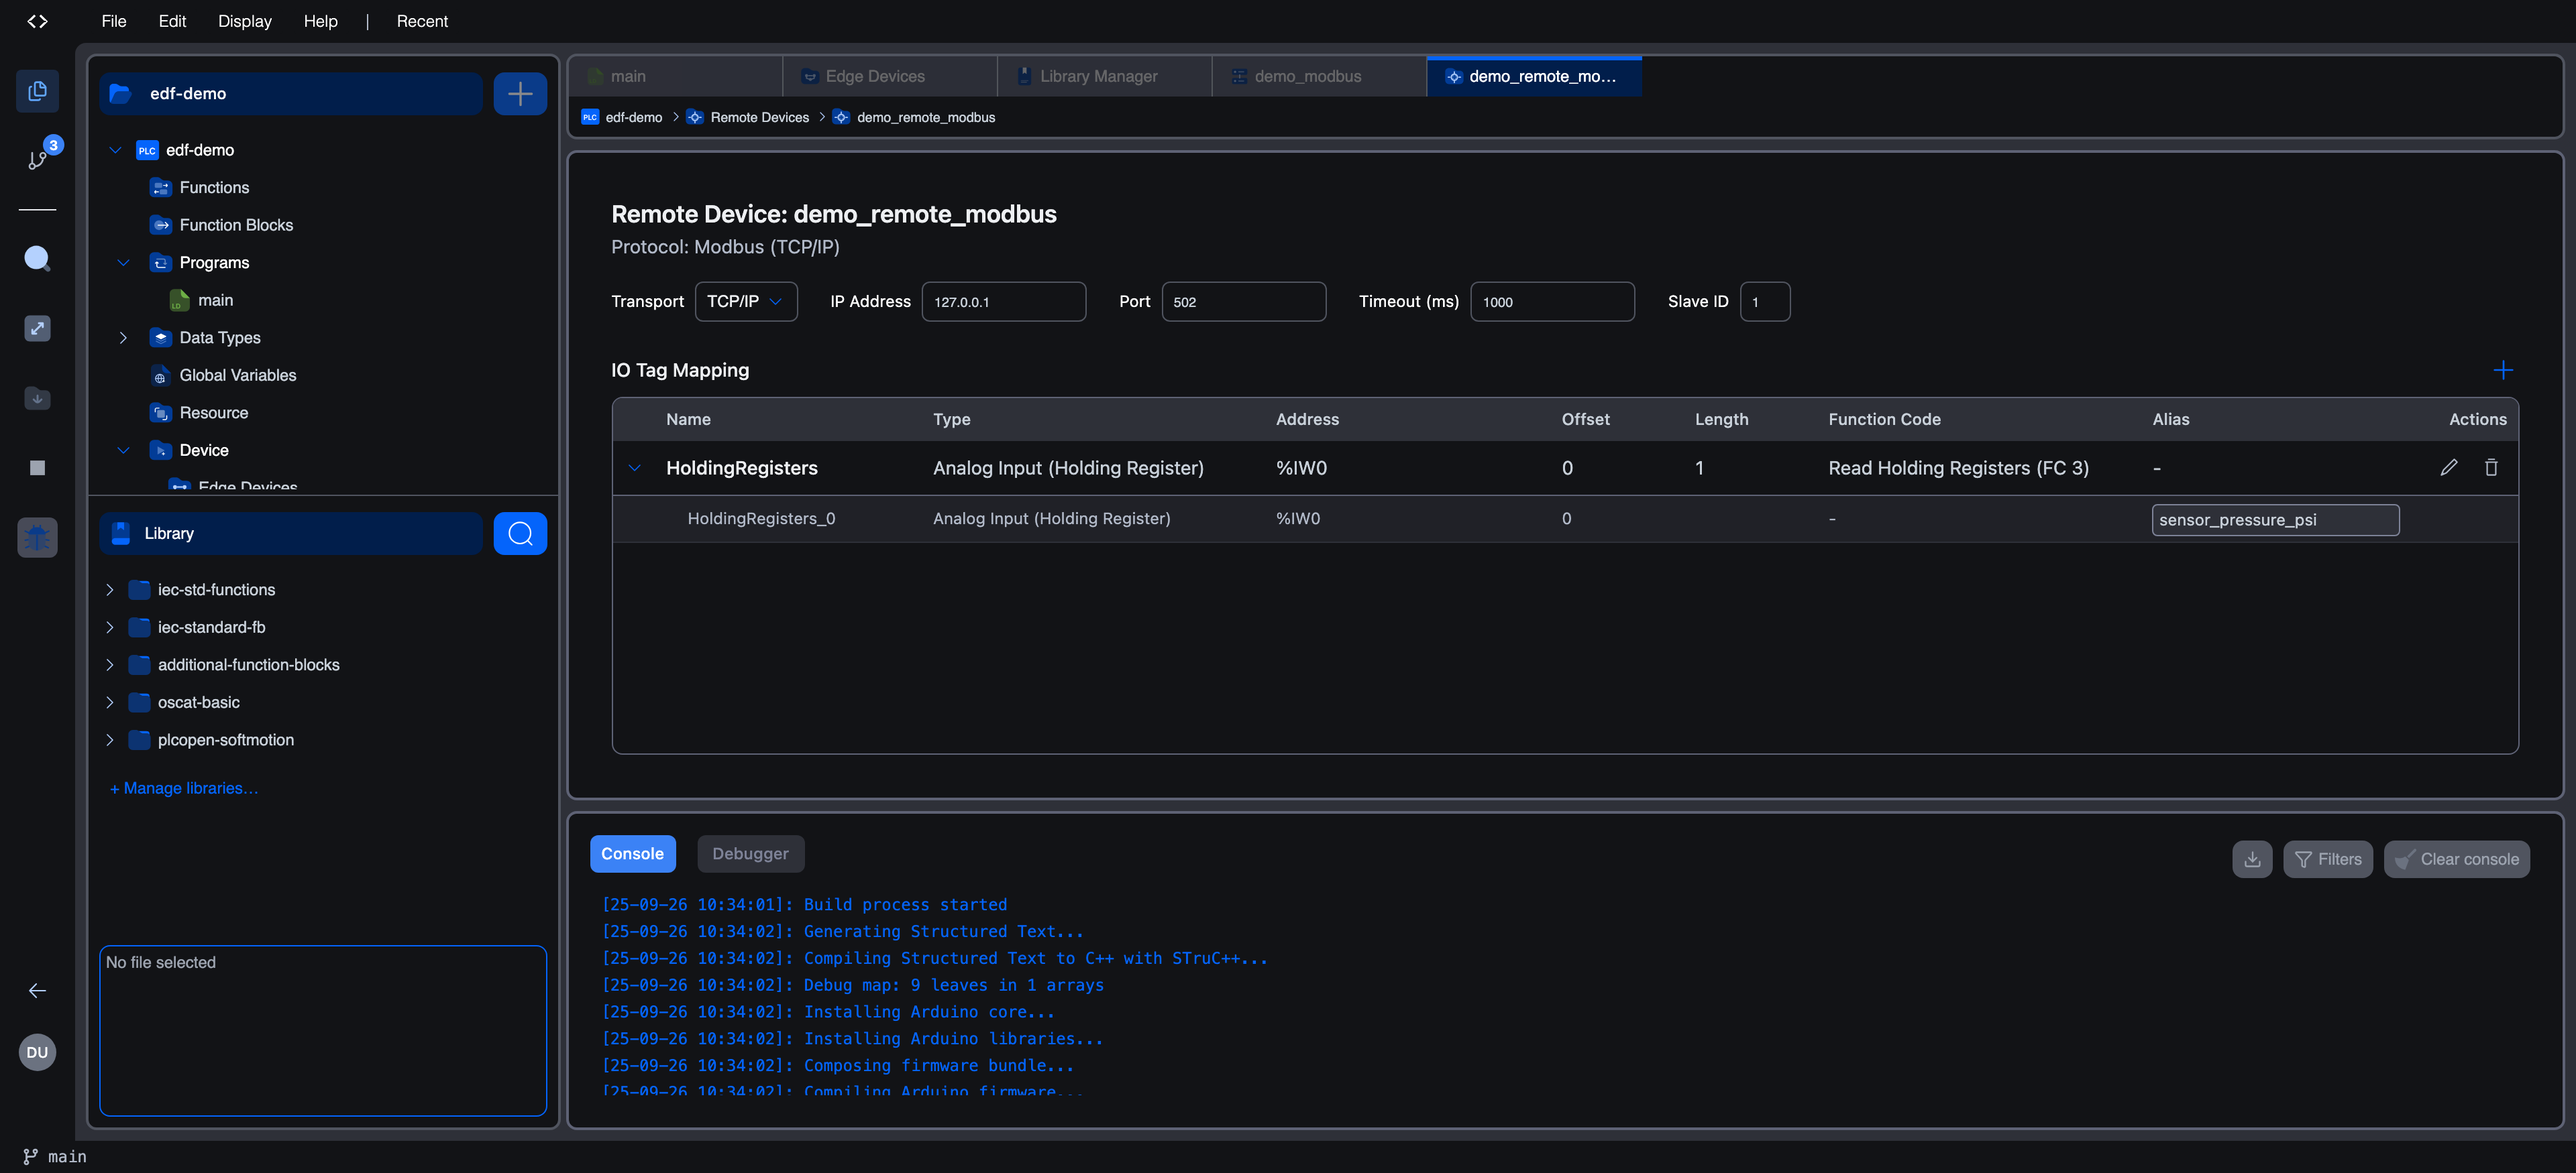
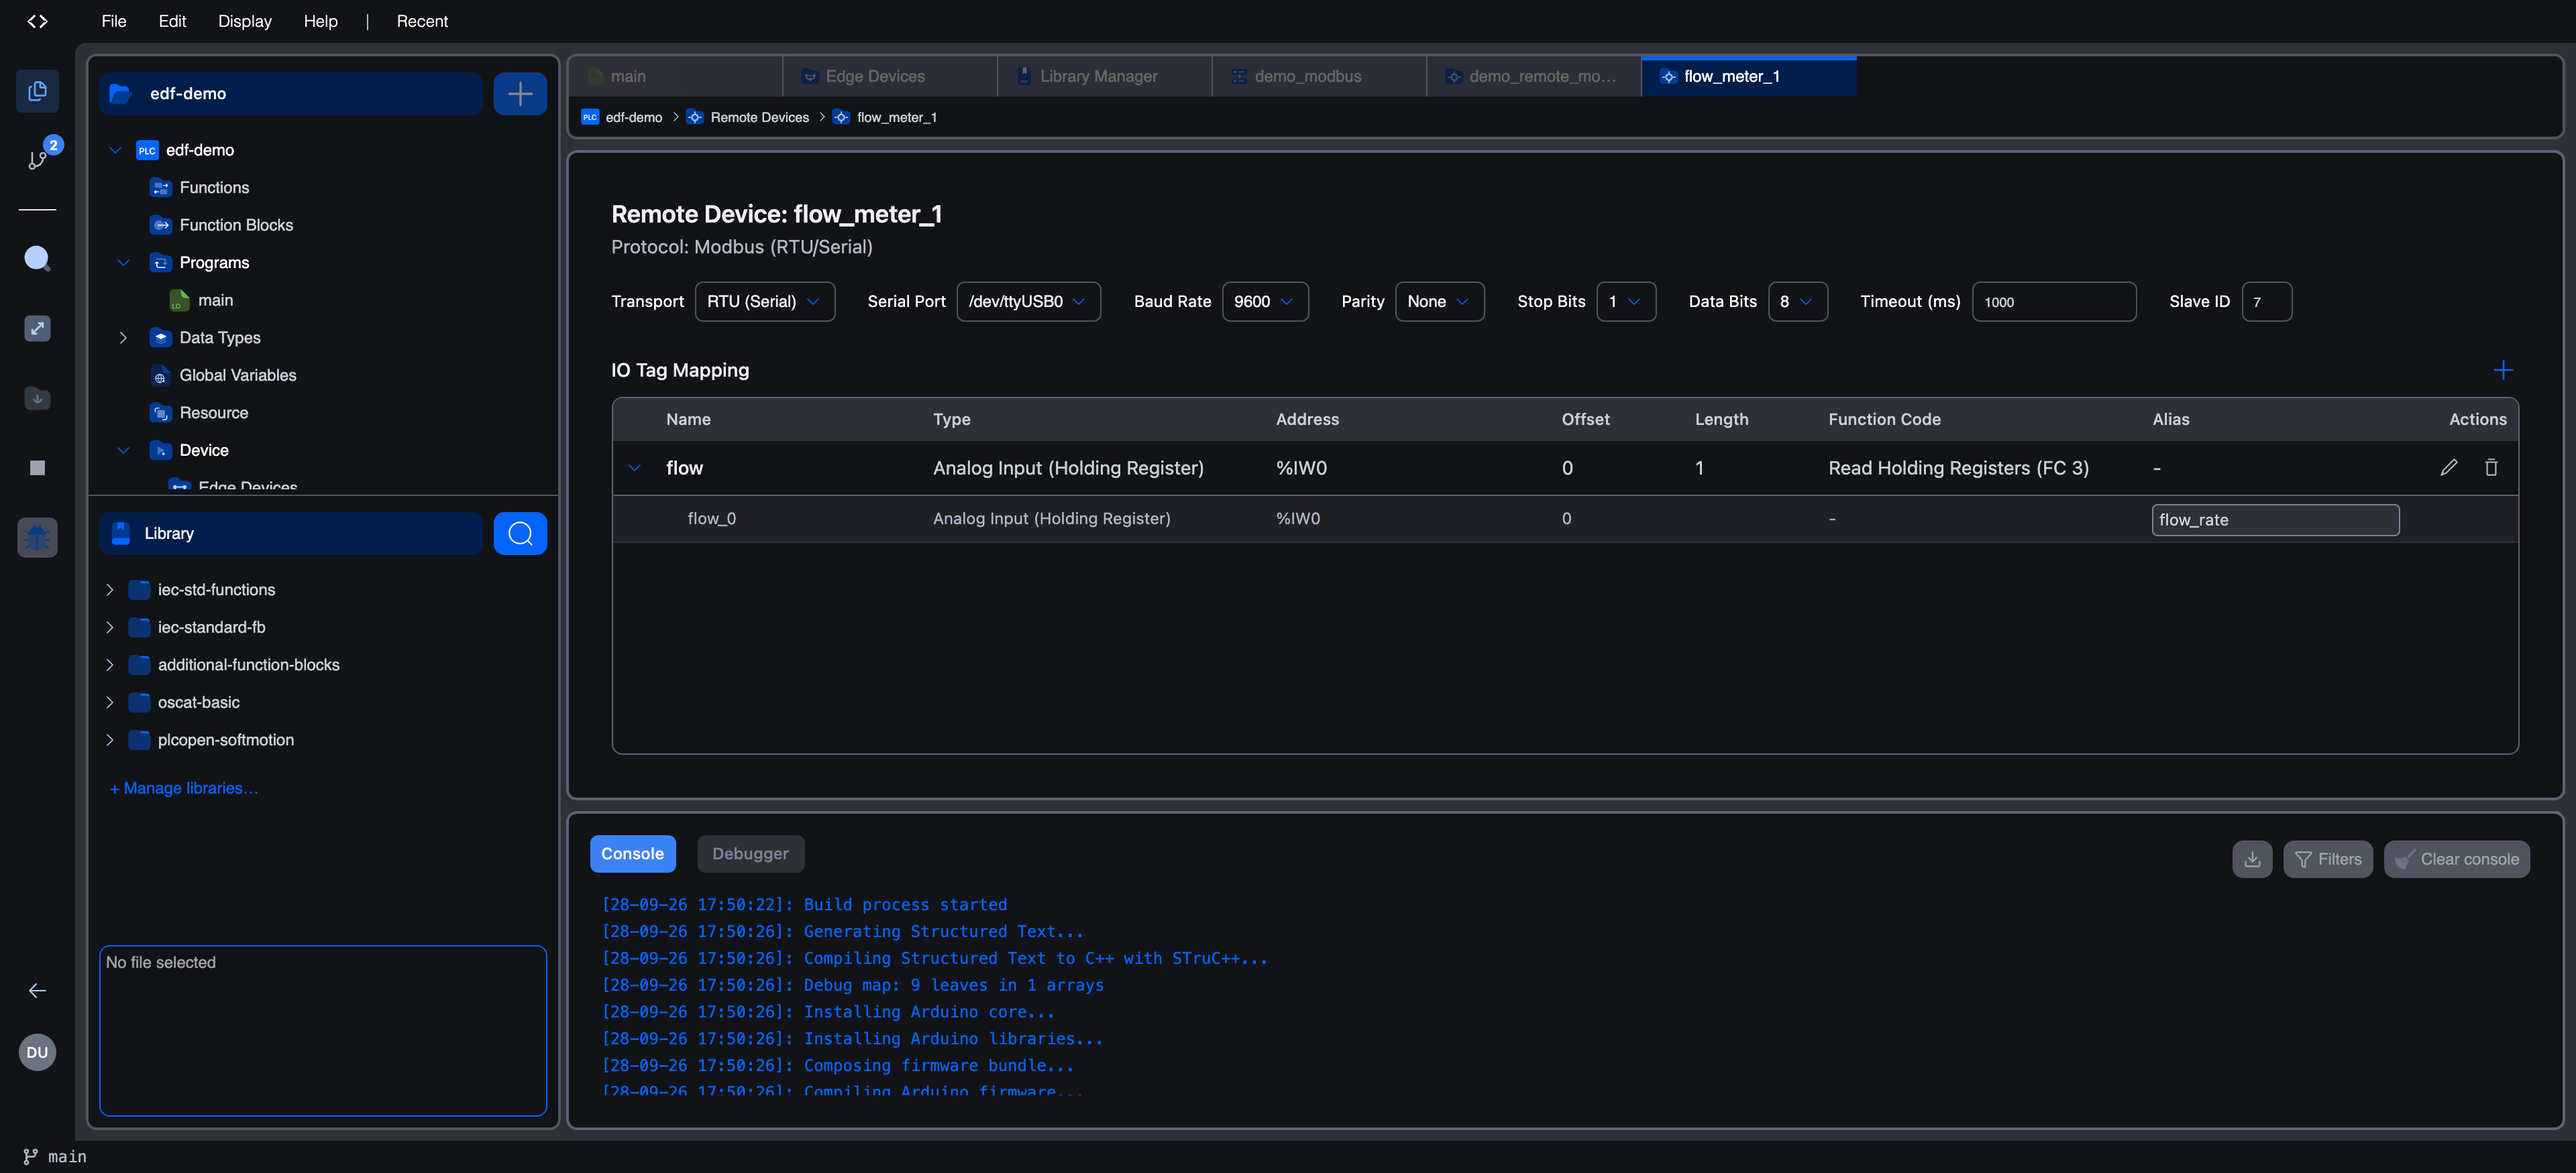
docs(EDGE-659): retake the screenshots flagged in the second review
- Quick start: the Device and vPLC cards no longer carry the Read-only
  badge (captured from an account within its plan limits), and the New
  vPLC wizard shows QuickStartDevice, the Device the tutorial uses.
- Modbus client worked example: the three steps now show the same
  device, flow_meter_1 over RTU with slave 7, the flow group, the flow_0
  point and its flow_rate alias, in the edf-demo project and dark theme
  like the rest of the page. Alt texts updated.
- vPLC wizard: the physical port reads eth0 (192.168.5.1), the same
  address the Device info shows.
- Remove getting-started/images/dashboard-main.png, which no page
  references.

Claude-Session: https://claude.ai/code/session_01SEHN6E4oZKbi6ekw1da6A4

diff --git a/docs/openplc-editor/communication/modbus/client.md b/docs/openplc-editor/communication/modbus/client.md
@@ -107,7 +107,7 @@ Click **Create**. The group appears in the IO Tag Mapping table:
 
 Click the chevron at the start of the group row to expand it. Each point inside the group gets its own row.
 
-![Expanded IO group showing the parent row plus one child row HoldingRegisters_0 with Type=Analog Input (Holding Register), Address=%IW0, Offset=0, an editable Alias field](images/remote-device-io-group-expanded.png)
+![Expanded flow group on flow_meter_1 showing the parent row plus one child row flow_0 with Type=Analog Input (Holding Register), Address=%IW0, Offset=0, an editable Alias field](images/remote-device-io-group-expanded.png)
 
 Per-point columns:
 
@@ -122,7 +122,7 @@ Per-point columns:
 
 Click the Alias field on a point row and type a name. Tab out to save.
 
-![The expanded IO group with an alias filled in: HoldingRegisters_0 now has alias "sensor_pressure_psi"](images/remote-device-io-group-with-alias.png)
+![The expanded flow group with an alias filled in: flow_0 now has alias "flow_rate"](images/remote-device-io-group-with-alias.png)
 
 Once you've set an alias, you can reference the variable in your program by alias, and if you later reorganise the group (insert points, change offsets), the variable's local `Location` follows the alias automatically. Without an alias, your program references the raw IEC address (`%IW0`), and if the address moves you have to track down every reference by hand.
 

diff --git a/docs/platform/vplcs/creating-a-vplc.md b/docs/platform/vplcs/creating-a-vplc.md
@@ -41,7 +41,7 @@ A default NIC named `veth0` is added for you, configured for DHCP on the host's 
 
 Expanding the row reveals every NIC option:
 
-![NIC row expanded: Interface Name veth0, Physical Port eth0 (192.168.2.4), Dedicated Interface checkbox, DHCP / Static IP radio, MAC Address Automatic / Manual radio](images/new-vplc-step2-nic-expanded.png)
+![NIC row expanded: Interface Name veth0, Physical Port eth0 (192.168.5.1), Dedicated Interface checkbox, DHCP / Static IP radio, MAC Address Automatic / Manual radio](images/new-vplc-step2-nic-expanded.png)
 
 | Field | What it does |
 |---|---|
